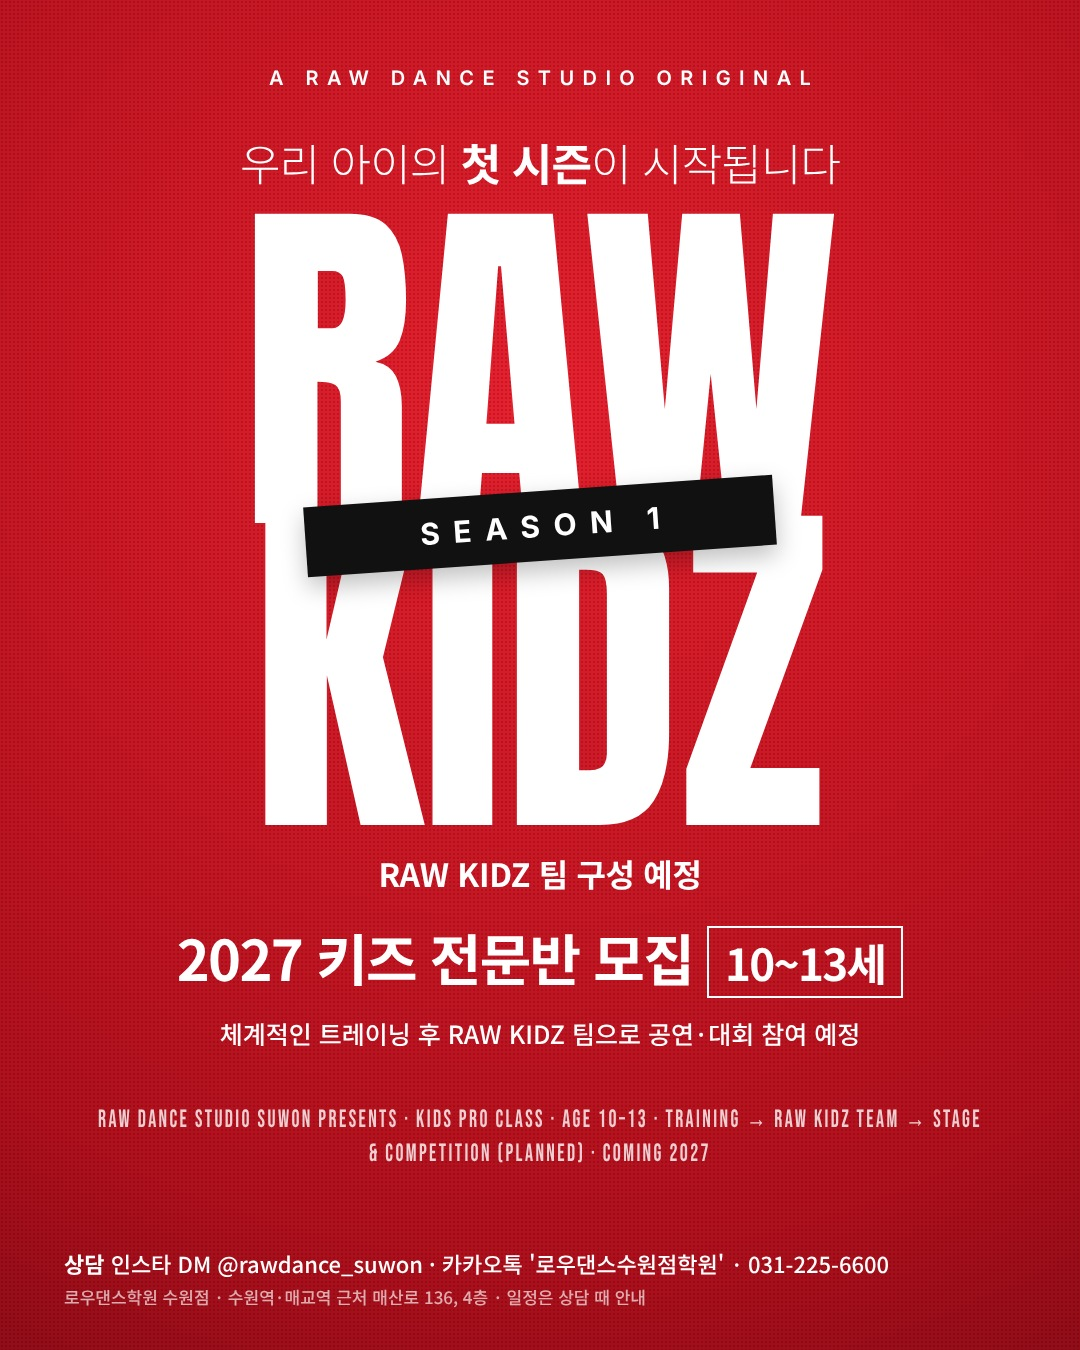
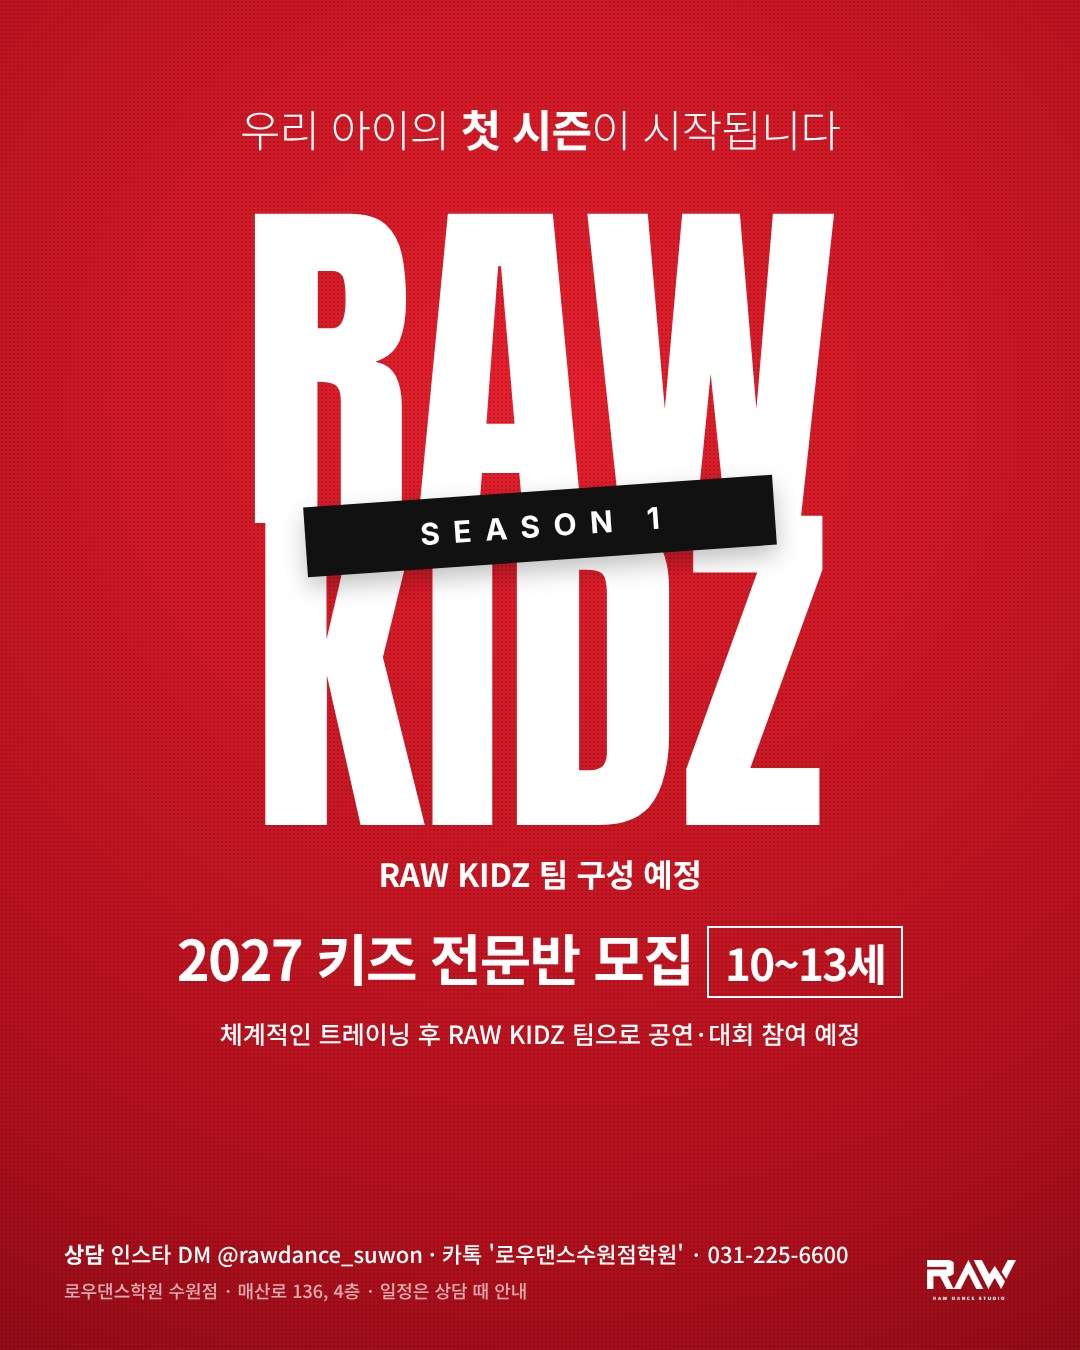
키즈 전문반 포스터 최종 L3(미니멀): 피드·스토리, 캐러셀 1장 교체
Claude-Session: https://claude.ai/code/session_01CMPXWNa21Fqq6srPZpa27D

diff --git a/content/2026-11-19_kidz-pro-poster/poster6.html b/content/2026-11-19_kidz-pro-poster/poster6.html
@@ -57,5 +57,20 @@ V.L3=`<div class="P" style="background:radial-gradient(120% 90% at 50% 30%,#E820
  <div style="position:absolute;left:64px;right:64px;bottom:44px;display:flex;justify-content:space-between;align-items:flex-end;color:#fff"><div style="font-size:22px;line-height:1.6;font-weight:500"><b style="font-weight:800">상담</b> 인스타 DM @rawdance_suwon · 카톡 '로우댄스수원점학원' · 031-225-6600<br><span style="opacity:.65;font-size:18px">로우댄스학원 수원점 · 매산로 136, 4층 · 일정은 상담 때 안내</span></div><img class="logoW" src="img/raw-logo-tight.png" style="height:40px;margin-bottom:6px"></div>
 </div>`;
 
+// 스토리판 (원장님 2026-11-25 "3번이 좋을 듯")
+V.L3S=`<div class="P" style="height:1920px;background:radial-gradient(120% 80% at 50% 35%,#E8202E 0%,#B00F1C 70%,#7E0A14 100%)">
+ <div style="position:absolute;inset:0;opacity:.16;background-image:radial-gradient(#000 1px,transparent 1px);background-size:4px 4px"></div>
+  <div style="position:absolute;left:0;right:0;top:200px;text-align:center;color:#fff;font-size:48px;font-weight:300;letter-spacing:-.02em">우리 아이의 <b style="font-weight:800">첫 시즌</b>이 시작됩니다</div>
+ <div style="position:absolute;left:0;right:0;top:310px;text-align:center;color:#fff;font:400 400px/0.84 Anton">RAW<br>KIDZ</div>
+ ${BAND(310+400*0.84+4,34,'#111','#fff',520)}
+ <div style="position:absolute;left:0;right:0;top:1020px;text-align:center;color:#fff">
+  <div style="font-size:36px;font-weight:800;margin-bottom:20px;letter-spacing:-.01em">RAW KIDZ 팀 구성 예정</div>
+  <div style="font-size:64px;font-weight:800;letter-spacing:-.03em">2027 키즈 전문반 모집</div>
+  <div style="margin-top:20px;display:inline-block;border:3px solid #fff;padding:6px 26px;font-size:48px;font-weight:800">10~13세</div>
+  <div style="margin-top:30px;font-size:28px;font-weight:500;line-height:1.5">체계적인 트레이닝 후 RAW KIDZ 팀으로<br>공연·대회 참여 예정</div></div>
+ <div style="position:absolute;left:64px;right:64px;bottom:260px;text-align:center;color:#fff;font-size:26px;line-height:1.6;font-weight:500"><b style="font-weight:800">상담</b> 인스타 DM · 카톡 '로우댄스수원점학원' · 031-225-6600
+ <div style="font-size:19px;opacity:.65;margin-top:4px">로우댄스학원 수원점 · 매산로 136, 4층 · 일정은 상담 때 안내</div>
+ <img class="logoW" src="img/raw-logo-tight.png" style="height:44px;margin-top:34px"></div>
+</div>`;
 document.getElementById('r').innerHTML=V[c];
 </script></body></html>

diff --git a/content/2026-11-19_kidz-pro-poster/instagram.md b/content/2026-11-19_kidz-pro-poster/instagram.md
@@ -1,6 +1,7 @@
 # 2027 키즈 전문반 모집 — 인스타 피드·스토리 (RAW KIDZ SEASON 1)
 
 > 이미지: `final/feed_B1_red.jpg`(빨강) 또는 `final/feed_B2_light.jpg`(밝은 바탕) / 스토리 `final/story_B1_red.jpg`, `final/story_B2_light.jpg`
+> **최종 교체 (원장님 2026-11-25 "위·아래 작은 글씨가 너무 클로드 티 남" → 시안 3개 중 "3번이 좋을 듯"):** `final/feed_L3_red.jpg` / `final/story_L3_red.jpg` (`poster6.html?c=L3`, `?c=L3S`) — 맨 위 "A RAW DANCE STUDIO ORIGINAL"과 아래 영어 크레딧 줄 삭제, 오른쪽 아래(스토리는 가운데 아래) RAW 로고. 가운데 문구는 그대로(검수 통과 문구). 캐러셀 1장(`2026-11-25_kidz-pro-teaser/slide1.jpg`)도 이걸로 바꿈
 > 원장님 2026-11-19: 5차례 시안 끝에 3차 B '시리즈 포스터(SEASON 1)' 선택, "시즌1이 가운데 박히면 좋겠는데 둘다" 반영
 > 사실: 2027 키즈 전문반 모집, 10~13세, 트레이닝 후 RAW KIDZ 팀으로 공연·대회 참여 '예정', 일정 미정(상담 때 안내), 교습비 월 35만원
 > compliance-checker 검수: 2026-11-19 수정 후 통과 — 사실·교습비(월 35만원)·의상비 별도·해시태그 5개 OK / 고칠 것: ① 캡션 이모지 7개 → 📍 포함 2개 이하(스토리 질문 스티커 🙋 삭제) ② 이미지 큰 RAW KIDZ 바로 아래(SEASON 1 띠 옆이나 아래)에 '팀 구성 예정' 한 줄 / 원장님 답 대기: 선발이면 '선발 후 팀 구성 예정'으로 이미지·캡션 모두 교체, 대회 참가비 따로 있으면 '대회 참가비 별도' 추가
